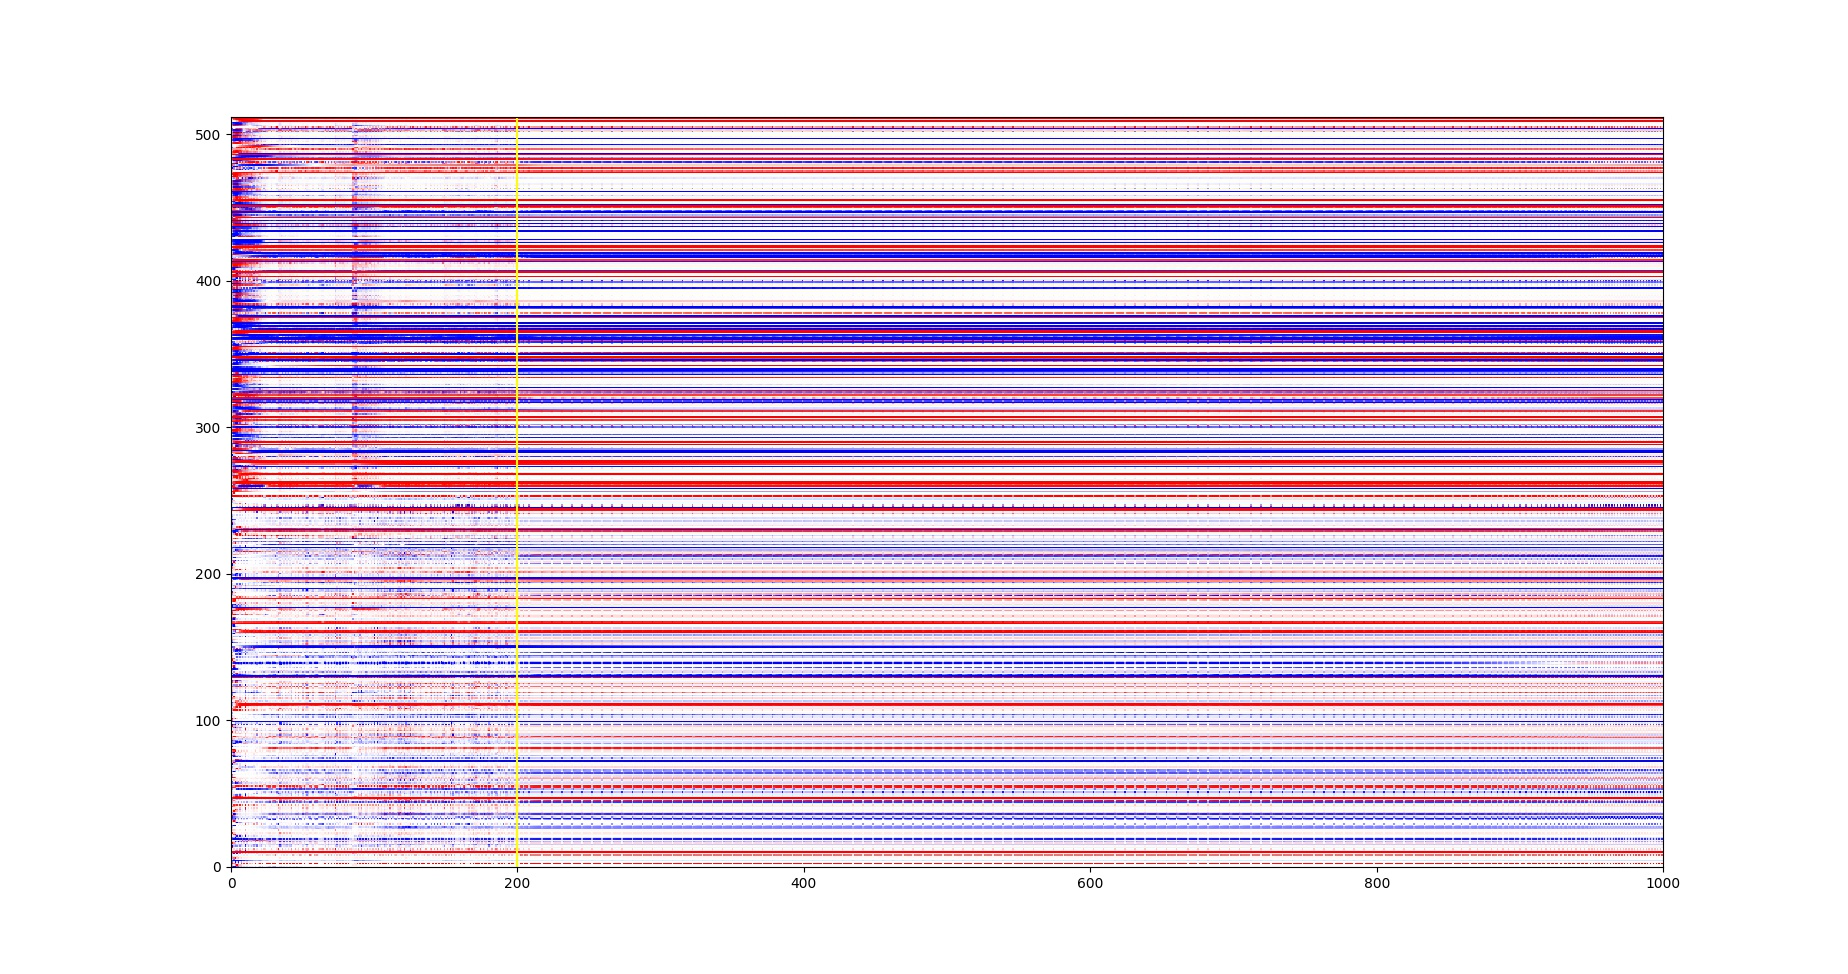
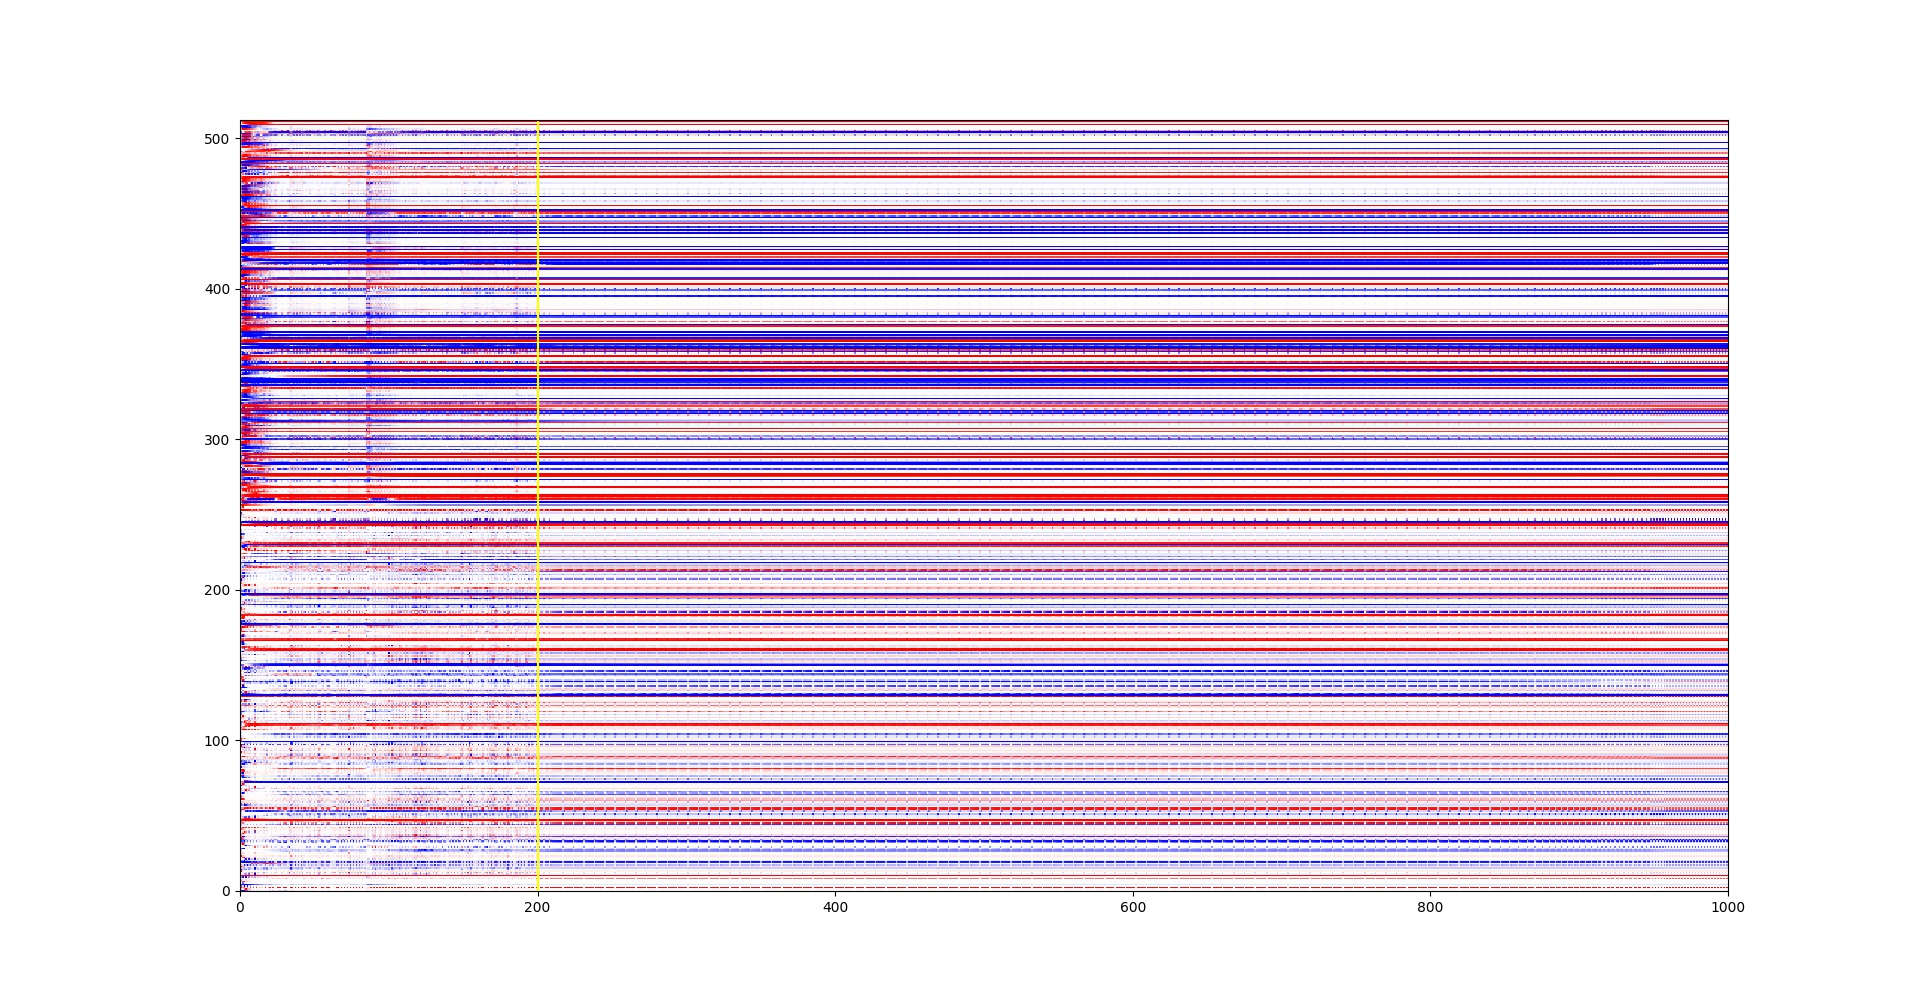
PPO Video data

Changed region(s): [[0.0925, 0.0924, 0.9253, 0.8932]]

diff --git a/Analysis/Neural/Visualisation/activity_heat_maps.py b/Analysis/Neural/Visualisation/activity_heat_maps.py
@@ -3,6 +3,7 @@ import matplotlib.pyplot as plt
 
 from Analysis.load_data import load_data
 from Analysis.Neural.Tools.normalise_activity import normalise_within_neuron_multiple_traces
+from Analysis.Behavioural.Tools.BehavLabels.label_behavioural_context import label_capture_sequences
 
 
 def display_activity_heat_map(rnn_activity, event_timestamps, name, min_t=0, max_t=-1, normalise_main_activity=True,
@@ -33,14 +34,72 @@ def display_activity_heat_map(rnn_activity, event_timestamps, name, min_t=0, max
     plt.close()
 
 
-if __name__ == "__main__":
-    # Interrupted trials
-    data = load_data("dqn_scaffold_14-1", "Interruptions-H", "Naturalistic-3")
-    data2 = load_data("dqn_scaffold_14-1", "Interruptions-H", "Naturalistic-5")
-    display_activity_heat_map(data2["rnn_state_actor"], [200], "Interruptions", max_t=1000)
+def display_activity_heat_map_capture_sequences_average(model_name, assay_config, assay_id, n,
+                                                        normalise_main_activity=True, normalise_cell_activity=True,
+                                                        sequence_steps=10):
+    rnn_activity = np.zeros((sequence_steps, 2, 512))
+    num_sequences = 0
+    for i in range(1, n+1):
+        data = load_data(model_name, assay_config, f"{assay_id}-{i}")
+        capture_ts = label_capture_sequences(data, n=sequence_steps) * 1
+        rnn_data = data["rnn_state_actor"]
+        main_activity = np.swapaxes(rnn_data[:, 0:1, 0, :], 0, 1)
+        cell_state_activity = np.swapaxes(rnn_data[:, 1:2, 0, :], 0, 1)
+        if normalise_main_activity:
+            main_activity = normalise_within_neuron_multiple_traces(main_activity)
+        if normalise_cell_activity:
+            cell_state_activity = normalise_within_neuron_multiple_traces(cell_state_activity)
+        rnn_data = np.concatenate((main_activity, cell_state_activity), axis=0)
+        rnn_data = np.swapaxes(rnn_data, 0, 1)
 
-    # Normal trials
-    data = load_data("ppo_scaffold_21-1", "Behavioural-Data-Free", "Naturalistic-5")
-    consumption_events = [i for i, c in enumerate(data["consumed"]) if c == 1]
-    display_activity_heat_map(data["rnn_state_actor"], consumption_events, "Normal Behaviour")
+        capture_ts_separated = []
+        current_ts_sequence = []
+        for i, c in enumerate(capture_ts):
+            if c == 1:
+                current_ts_sequence.append(i)
+            else:
+                if len(current_ts_sequence) > 0:
+                    capture_ts_separated.append(current_ts_sequence)
+                    current_ts_sequence = []
+        if len(current_ts_sequence) > 0:
+            capture_ts_separated.append(current_ts_sequence)
+            current_ts_sequence = []
+
+        for sequence in capture_ts_separated:
+            if len(sequence) != sequence_steps:
+                continue
+            rnn_activity_t = rnn_data[sequence]
+            rnn_activity += rnn_activity_t
+            num_sequences += 1
+    rnn_activity /= num_sequences
+    main_activity = np.swapaxes(rnn_activity[:, 0, :], 0, 1)
+    cell_state_activity = np.swapaxes(rnn_activity[:, 1, :], 0, 1)
+
+
+    plt.figure(figsize=(20, 20))
+    plt.pcolormesh(main_activity, cmap="bwr")
+    plt.savefig(f"{model_name}-prey_capture-heat_map.jpg", dpi=100)
+    plt.clf()
+    plt.close()
+
+    plt.figure(figsize=(20, 20))
+    plt.pcolormesh(cell_state_activity, cmap="bwr")
+
+    plt.savefig(f"{model_name}-prey_capture-heat_map_cell.jpg", dpi=100)
+    plt.clf()
+    plt.close()
+
+
+if __name__ == "__main__":
+    display_activity_heat_map_capture_sequences_average("dqn_scaffold_18-1", "Behavioural-Data-Free", "Naturalistic", 10,
+                                                        normalise_main_activity=False, normalise_cell_activity=False)
+    # Interrupted trials
+    # data = load_data("dqn_scaffold_14-1", "Interruptions-H", "Naturalistic-3")
+    # data2 = load_data("dqn_scaffold_14-1", "Interruptions-H", "Naturalistic-5")
+    # display_activity_heat_map(data2["rnn_state_actor"], [200], "Interruptions", max_t=1000)
+    #
+    # # Normal trials
+    # data = load_data("ppo_scaffold_21-1", "Behavioural-Data-Free", "Naturalistic-5")
+    # consumption_events = [i for i, c in enumerate(data["consumed"]) if c == 1]
+    # display_activity_heat_map(data["rnn_state_actor"], consumption_events, "Normal Behaviour")
 

diff --git a/Services/PPO/continuous_ppo.py b/Services/PPO/continuous_ppo.py
@@ -295,7 +295,14 @@ class ContinuousPPO(BasePPO):
             action = [mu_i[0][0] * self.environment_params['max_impulse'],
                       mu_a[0][0] * self.environment_params['max_angle_change']]
         else:
-            action = [impulse[0][0], angle[0][0]]
+            if self.epsilon_greedy:
+                if np.random.rand(1) < self.e:
+                    action = [impulse[0][0], angle[0][0]]
+                else:
+                    action = [mu_i[0][0] * self.environment_params["max_impulse"],
+                              mu_a[0][0] * self.environment_params["max_angle_change"]]
+            else:
+                action = [impulse[0][0], angle[0][0]]
 
         o1, given_reward, new_internal_state, d, self.frame_buffer = self.simulation.simulation_step(action=action,
                                                                                                      frame_buffer=self.frame_buffer,
@@ -384,9 +391,6 @@ class ContinuousPPO(BasePPO):
                 else:
                     action = [mu_i[0][0] * self.environment_params["max_impulse"],
                               mu_a[0][0] * self.environment_params["max_angle_change"]]
-
-                if self.e > self.learning_params['endE']:
-                    self.e -= self.step_drop
             else:
                 action = [impulse[0][0], angle[0][0]]
 

diff --git a/Services/PPO/ppo_assay_service_continuous.py b/Services/PPO/ppo_assay_service_continuous.py
@@ -83,6 +83,7 @@ class PPOAssayServiceContinuous(AssayService, ContinuousPPO):
         self.ppo_version = ContinuousPPO
         self.use_rnd = self.learning_params["use_rnd"]
         self.sb_emulator = sb_emulator
+        self.e = self.learning_params["startE"] / 2
 
     def run(self):
         sess = self.create_session()

diff --git a/run.py b/run.py
@@ -21590,7 +21590,7 @@ ppo_video_data = [
         "Continuous Actions": True,
         "Learning Algorithm": "PPO",
         "Priority": 2,
-        "Using GPU": True,
+        "Using GPU": False,
         "monitor gpu": False,
         "Full Logs": True,
         "SB Emulator": True,
